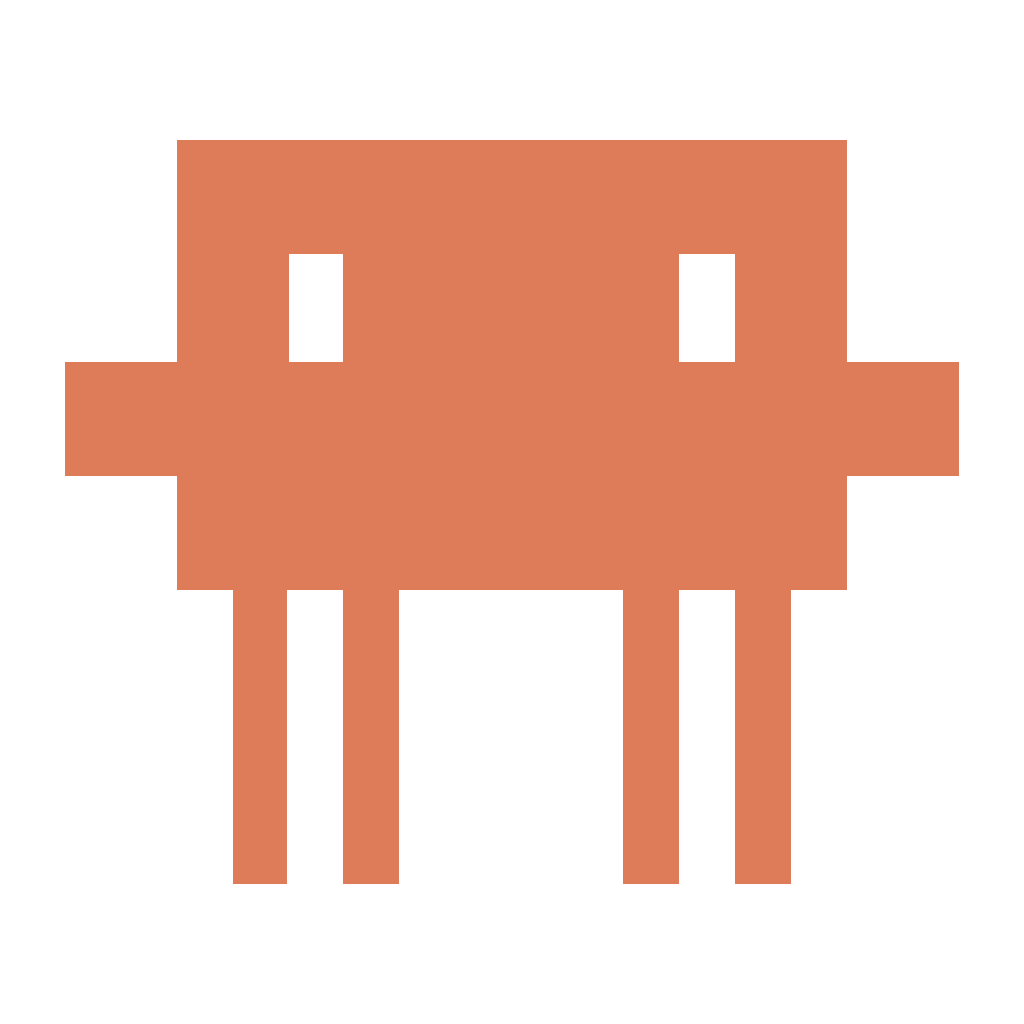
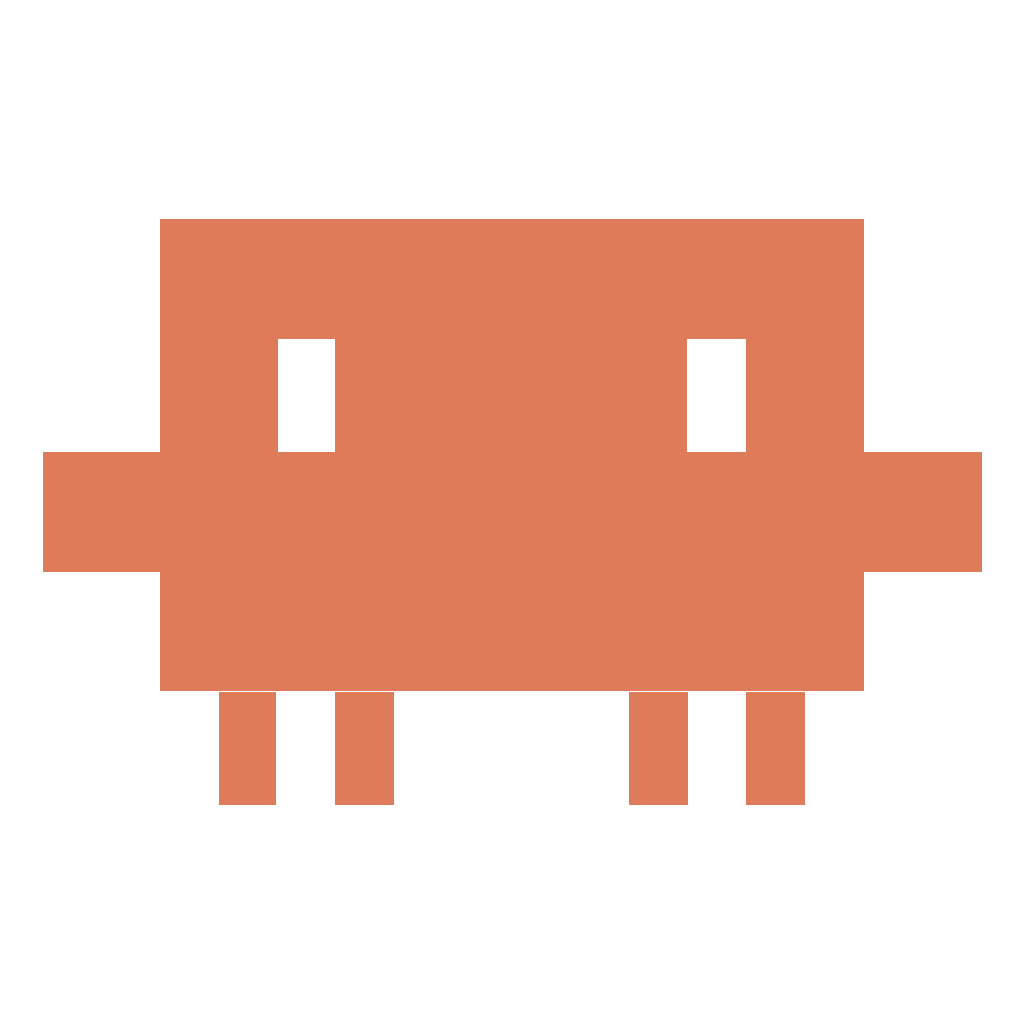
fix: shorten mascot legs to match the original

Changed region(s): [[0.0312, 0.125, 0.9688, 0.875], [0.6562, 0.25, 0.75, 0.4688], [0.25, 0.25, 0.3438, 0.4688]]

diff --git a/AI_USAGE_HUD_PROMPT.md b/AI_USAGE_HUD_PROMPT.md
@@ -829,6 +829,7 @@ Não parar para pedir autorização a cada etapa. Pedir intervenção somente qu
 | 2026-10-16 | Início da Fase 1: pesquisa de integrações oficiais; Claude confirmado, Cursor/Copilot parciais, Codex/Gemini pendentes. |
 | 2026-10-16 | Instalados Rust 1.99 e VS Build Tools 2022 (aprovado pelo usuário). Implementados: backend Rust (relay da status line, conexão/desconexão segura de `~/.claude/settings.json`, tray), frontend (HUD, hover, settings, welcome), `ProviderRegistry`, `UsageService`, `ClaudeProvider`. Criados README, LICENSE (MIT), CONTRIBUTING, CODE_OF_CONDUCT, SECURITY, CHANGELOG, `docs/*`, CI e release. Testes: 22 TS + 3 Rust passando. Bug achado por teste e corrigido (valor 0 em settings virava padrão). |
 | 2026-10-16 | Build de release OK: instaladores NSIS (1,27 MB) e MSI (1,80 MB) em `src-tauri/target/release/bundle/`. Relay testado de ponta a ponta (snapshot sem `cwd`). App abre com ~26 MB (processo principal) + WebView2. Pendente: validação visual/manual do HUD e publicação no GitHub (aguardando confirmação do usuário; `gh` logado como `jroed23`). |
+| 2026-10-16 | Pernas do mascote corrigidas (54 px como no original; viewBox 447x279; ícone do app regenerado). App **instalado** via NSIS silencioso em `%LOCALAPPDATA%AI Usage HUD` (por usuário) e **atalho criado na área de trabalho** + menu Iniciar. Claude reconectado com o caminho do exe instalado. Teste com o CLI: `claude -p` não executa a status line; o `claude` interativo (v2.1.98) está em primeiro uso (tema/login) e não foi concluído, pois o login é do usuário: **ainda sem dados reais**. |
 | 2026-10-16 | Ícone do HUD trocado para o mascote do Claude Code (SVG recriado da imagem enviada; também ícone do app/tray; ver `docs/brand-assets.md`: marca da Anthropic, verificar diretrizes antes de tornar público). Interação alterada para **arrastar o ícone + clicar para abrir/fechar** as porcentagens (limiar de 4 px separa arrasto de clique). Painel agora se ajusta para não sair da tela e volta à posição original ao fechar. Claude **conectado de verdade** (backup `settings.json.ai-usage-hud.bak` criado). Nenhum dado real recebido ainda: o app desktop do Claude parece não executar a status line; precisa do CLI `claude`. Instaladores regenerados. |
 | 2026-10-16 | Repositório **privado** criado e publicado: https://github.com/jroed23/ai-usage-hud (branch `main`, 2 commits). Link do tray apontado para ele. Sem release ainda. |
 | 2026-10-16 | **Validação na tela** (captura + DevTools remoto): HUD abre no canto superior direito, chip do Claude e painel de hover renderizam, janela de Configurações abre. Bug encontrado e corrigido: `open_settings` era comando síncrono e travava a thread principal ao criar a janela (agora `async`). Estado conectado (métricas reais) ainda não validado: exige Connect, que altera `~/.claude/settings.json`. |
